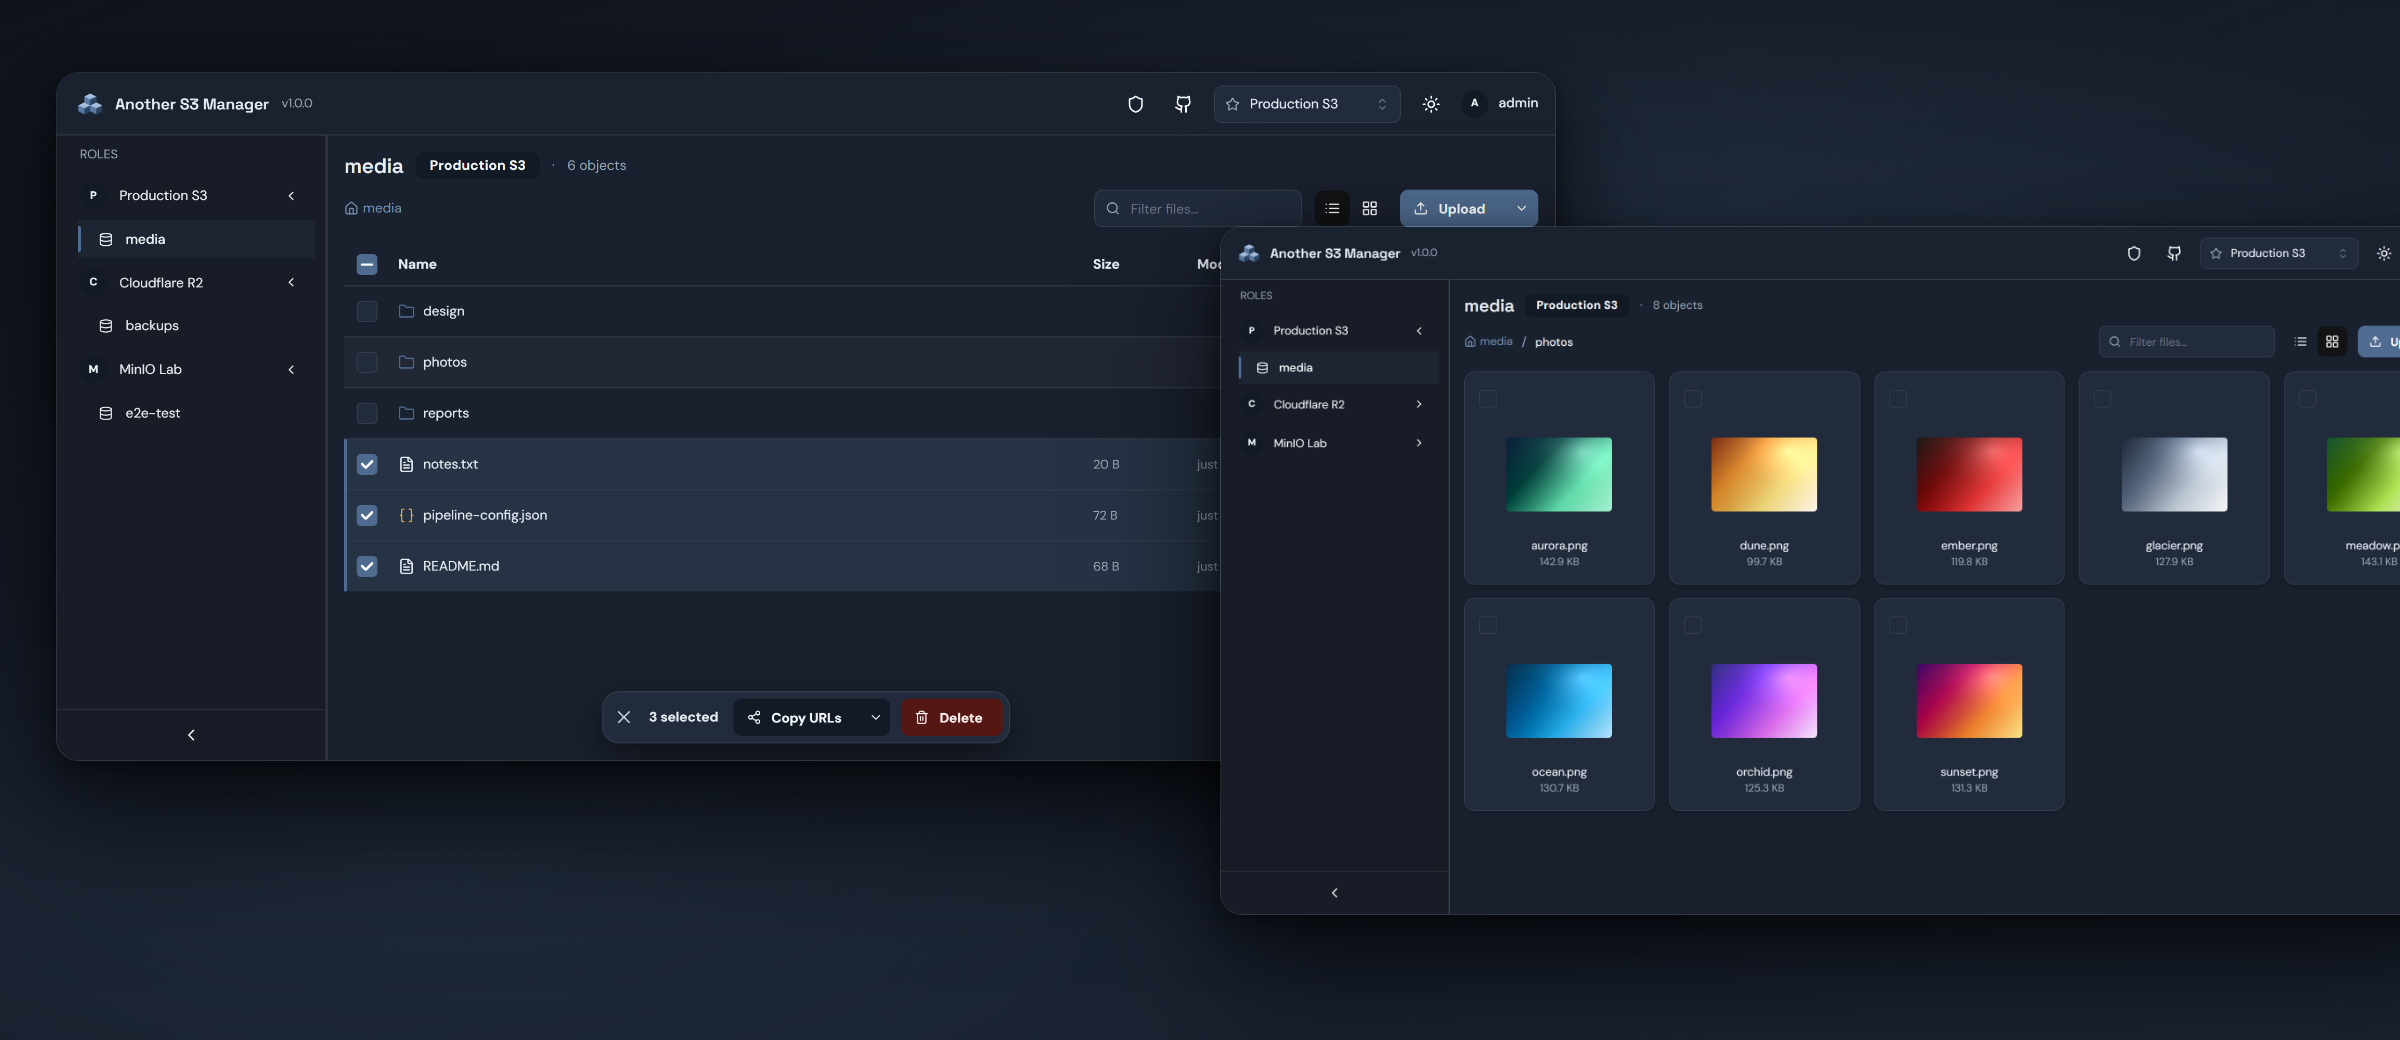
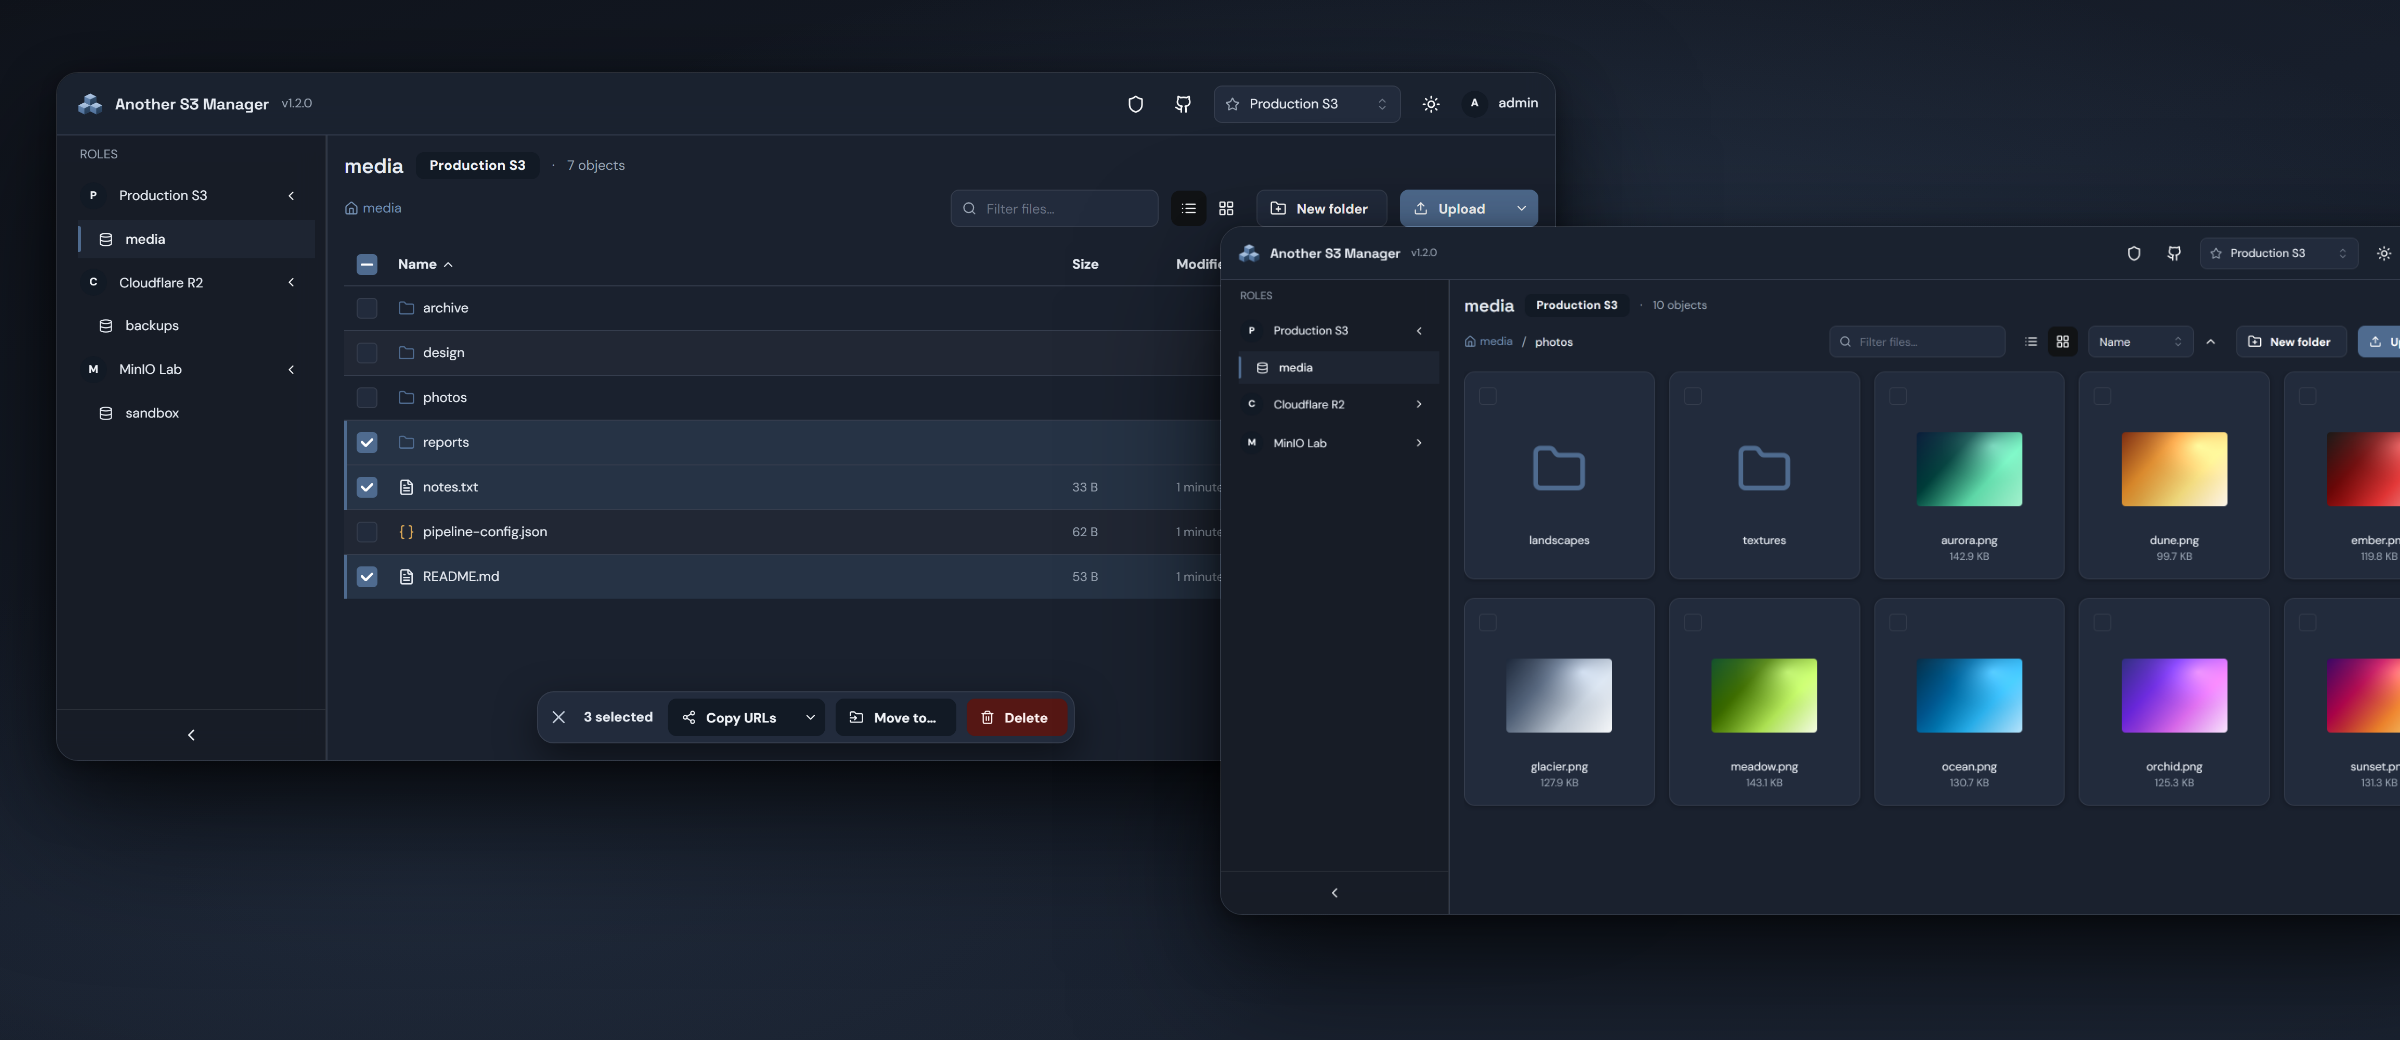
docs: README hero shows folders (1.2.0 UI)
Re-captured both cards from the 1.2.0 image against a throwaway MinIO
with neutral demo data: the table card now has folders, a selected
folder plus files and the Move to... bulk action; the grid card opens
a nested folder with folder tiles next to live image previews. Same
framing, theme and 2400x1040 canvas; PNG optimised losslessly
(537 KB -> 408 KB). Alt text mentions folders.

diff --git a/README.md b/README.md
@@ -11,7 +11,7 @@ Works with **AWS S3**, **MinIO**, **Cloudflare R2**, **Wasabi**, and any S3-comp
 </p>
 
 <p align="center">
-  <img src="docs/assets/hero.png" alt="Another S3 Manager — file browser with bulk actions and a grid view with live image previews" width="830">
+  <img src="docs/assets/hero.png" alt="Another S3 Manager — file browser with folders, bulk actions (copy URLs, move to a folder, delete) and a grid view with folder tiles and live image previews" width="830">
 </p>
 
 ## Quick Start
